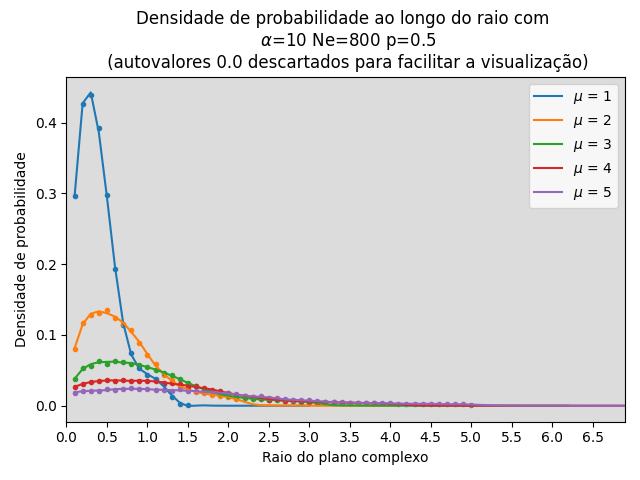
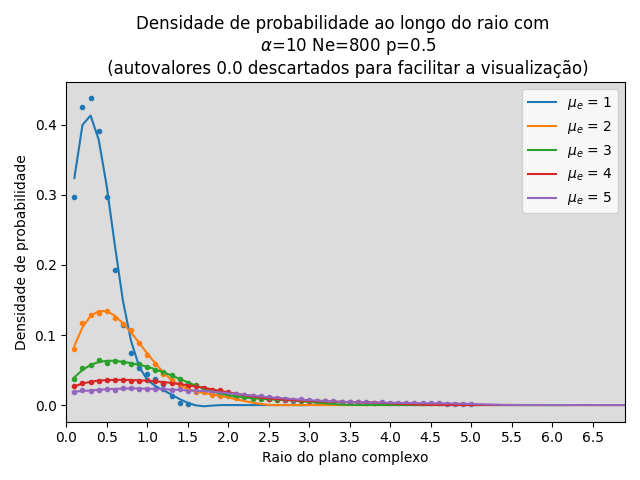
leo

diff --git a/plot_hist.py b/plot_hist.py
@@ -10,22 +10,22 @@ def grafico_justos(data):
     keys = [float(x) for x in data.keys()]
     values = [float(x) for x in data.values()]
 
-    teste = savgol_filter(values, 11, 3)
+    teste = savgol_filter(values, 13, 3)
 
-    ax.plot(keys, teste, label=rf"$\mu$ = {mu}")
+    ax.plot(keys, teste, label=rf"$\alpha$ = {alpha}")
     plt.scatter(keys[0:int(-len(keys)/2)], values[0:int(-len(keys)/2)], marker='.')
     plt.xlabel("Raio do plano complexo")
     plt.ylabel('Densidade de probabilidade')
-    plt.xticks(np.arange(0, max(keys)-3, 0.5))
-    plt.xlim(0, max(keys)-3)
+    plt.xticks(np.arange(0, max(keys)-1, 0.25))
+    plt.xlim(0, max(keys)-1)
     plt.grid(False)
     ax.set_facecolor('gainsboro')
     plt.title(f"Densidade de probabilidade ao longo do raio com \n "
-          fr"$\alpha$={alpha} Ne={ne} p={p}"
+          fr"Ne={ne} $\mu_e$={mu}"
           "\n (autovalores 0.0 descartados para facilitar a visualização)")
     plt.tight_layout() 
     plt.legend()
-    plt.savefig(f'Variação mu com Ne={ne} e p=0,5')
+    plt.savefig(f'Variação alpha com Ne={ne} e mu={mu}')
 
 def graficos(data):
     #função para criação de gráficos individuais das probabilidades
@@ -87,16 +87,16 @@ def segmentation(lista, passo):
     
     return contagem
 
-for alpha in [10]:
-    for ne in [800]:
-        for mu in [x for x in range(1,6)]:
-            for p in [0.5]:
+for alpha in [0.1,1,10]:
+    for ne in [500]:
+        for mu in [3]:
+            #for p in [x/10 for x in range(1,10)]:
                 x = []
                 y = []
                 radius = []
 
                 # Ler os dados do arquivo
-                with open("5. lei de Dale variação alpha e p/dados_p{}_alpha{}_Ne{}_mu{}.txt".format(p,alpha,ne,mu), "r") as arq:
+                with open("4. lei de Dale variação alpha/dados_alpha{}_Ne{}_mu{}.txt".format(alpha,ne,mu), "r") as arq:
                     for line in arq:
                         parts = line.split()
                         x.append(float(parts[0]))
@@ -107,7 +107,7 @@ for alpha in [10]:
                     if (x[i]**2 + y[i]**2)**0.5 != 0:
                         radius.append((x[i]**2 + y[i]**2)**0.5)
 
-                data = segmentation(radius, 0.1)
+                data = segmentation(radius, 0.05)
 
                 #graficos(data)
                 grafico_justos(data)
